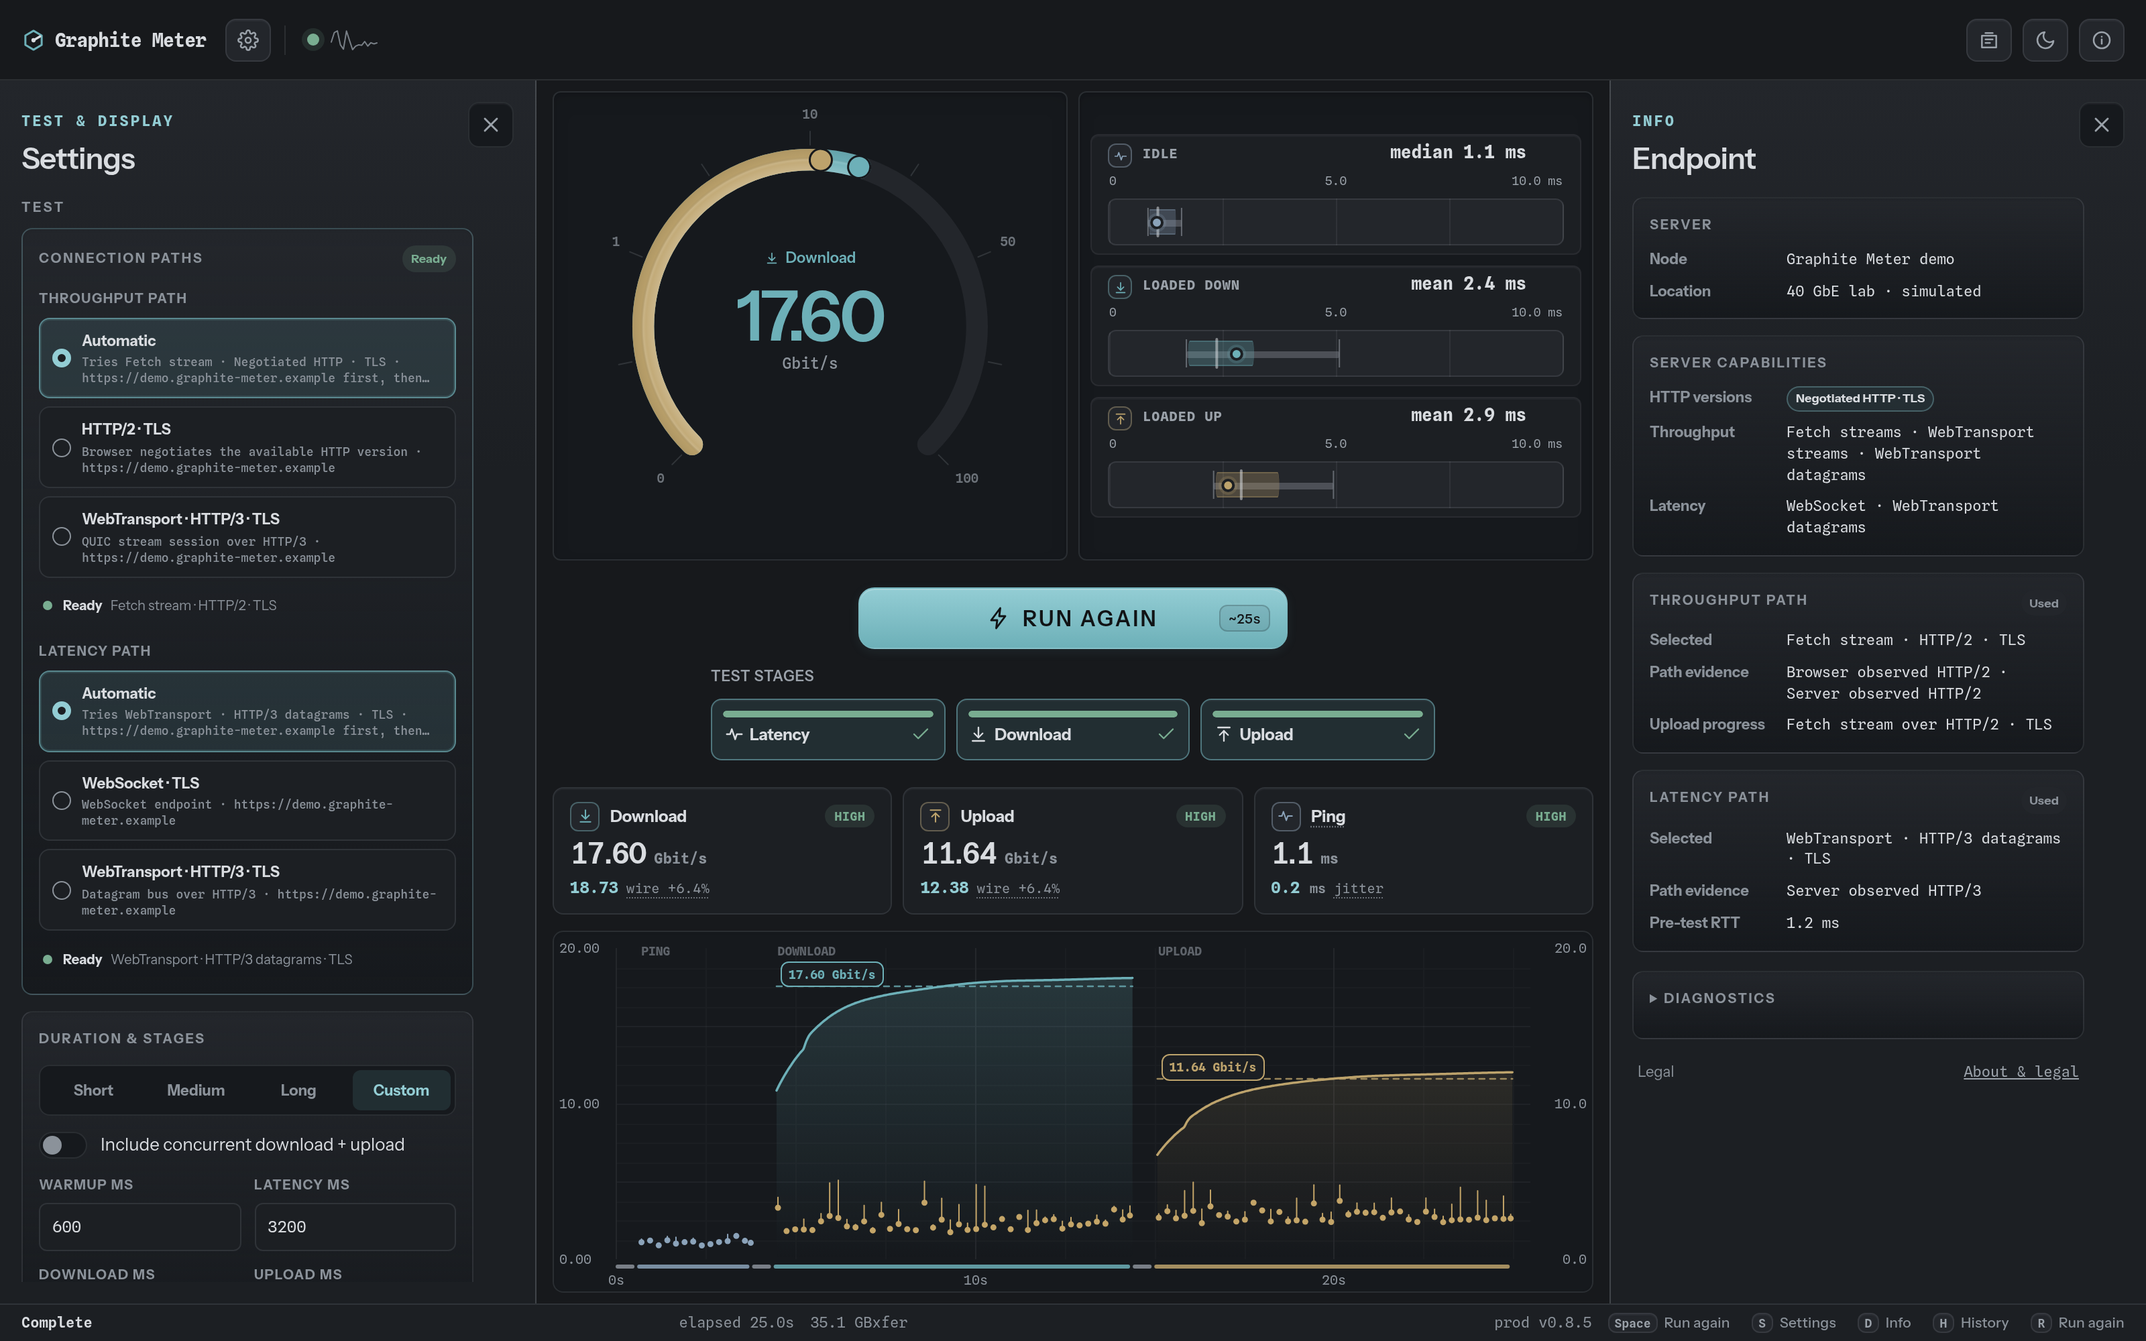
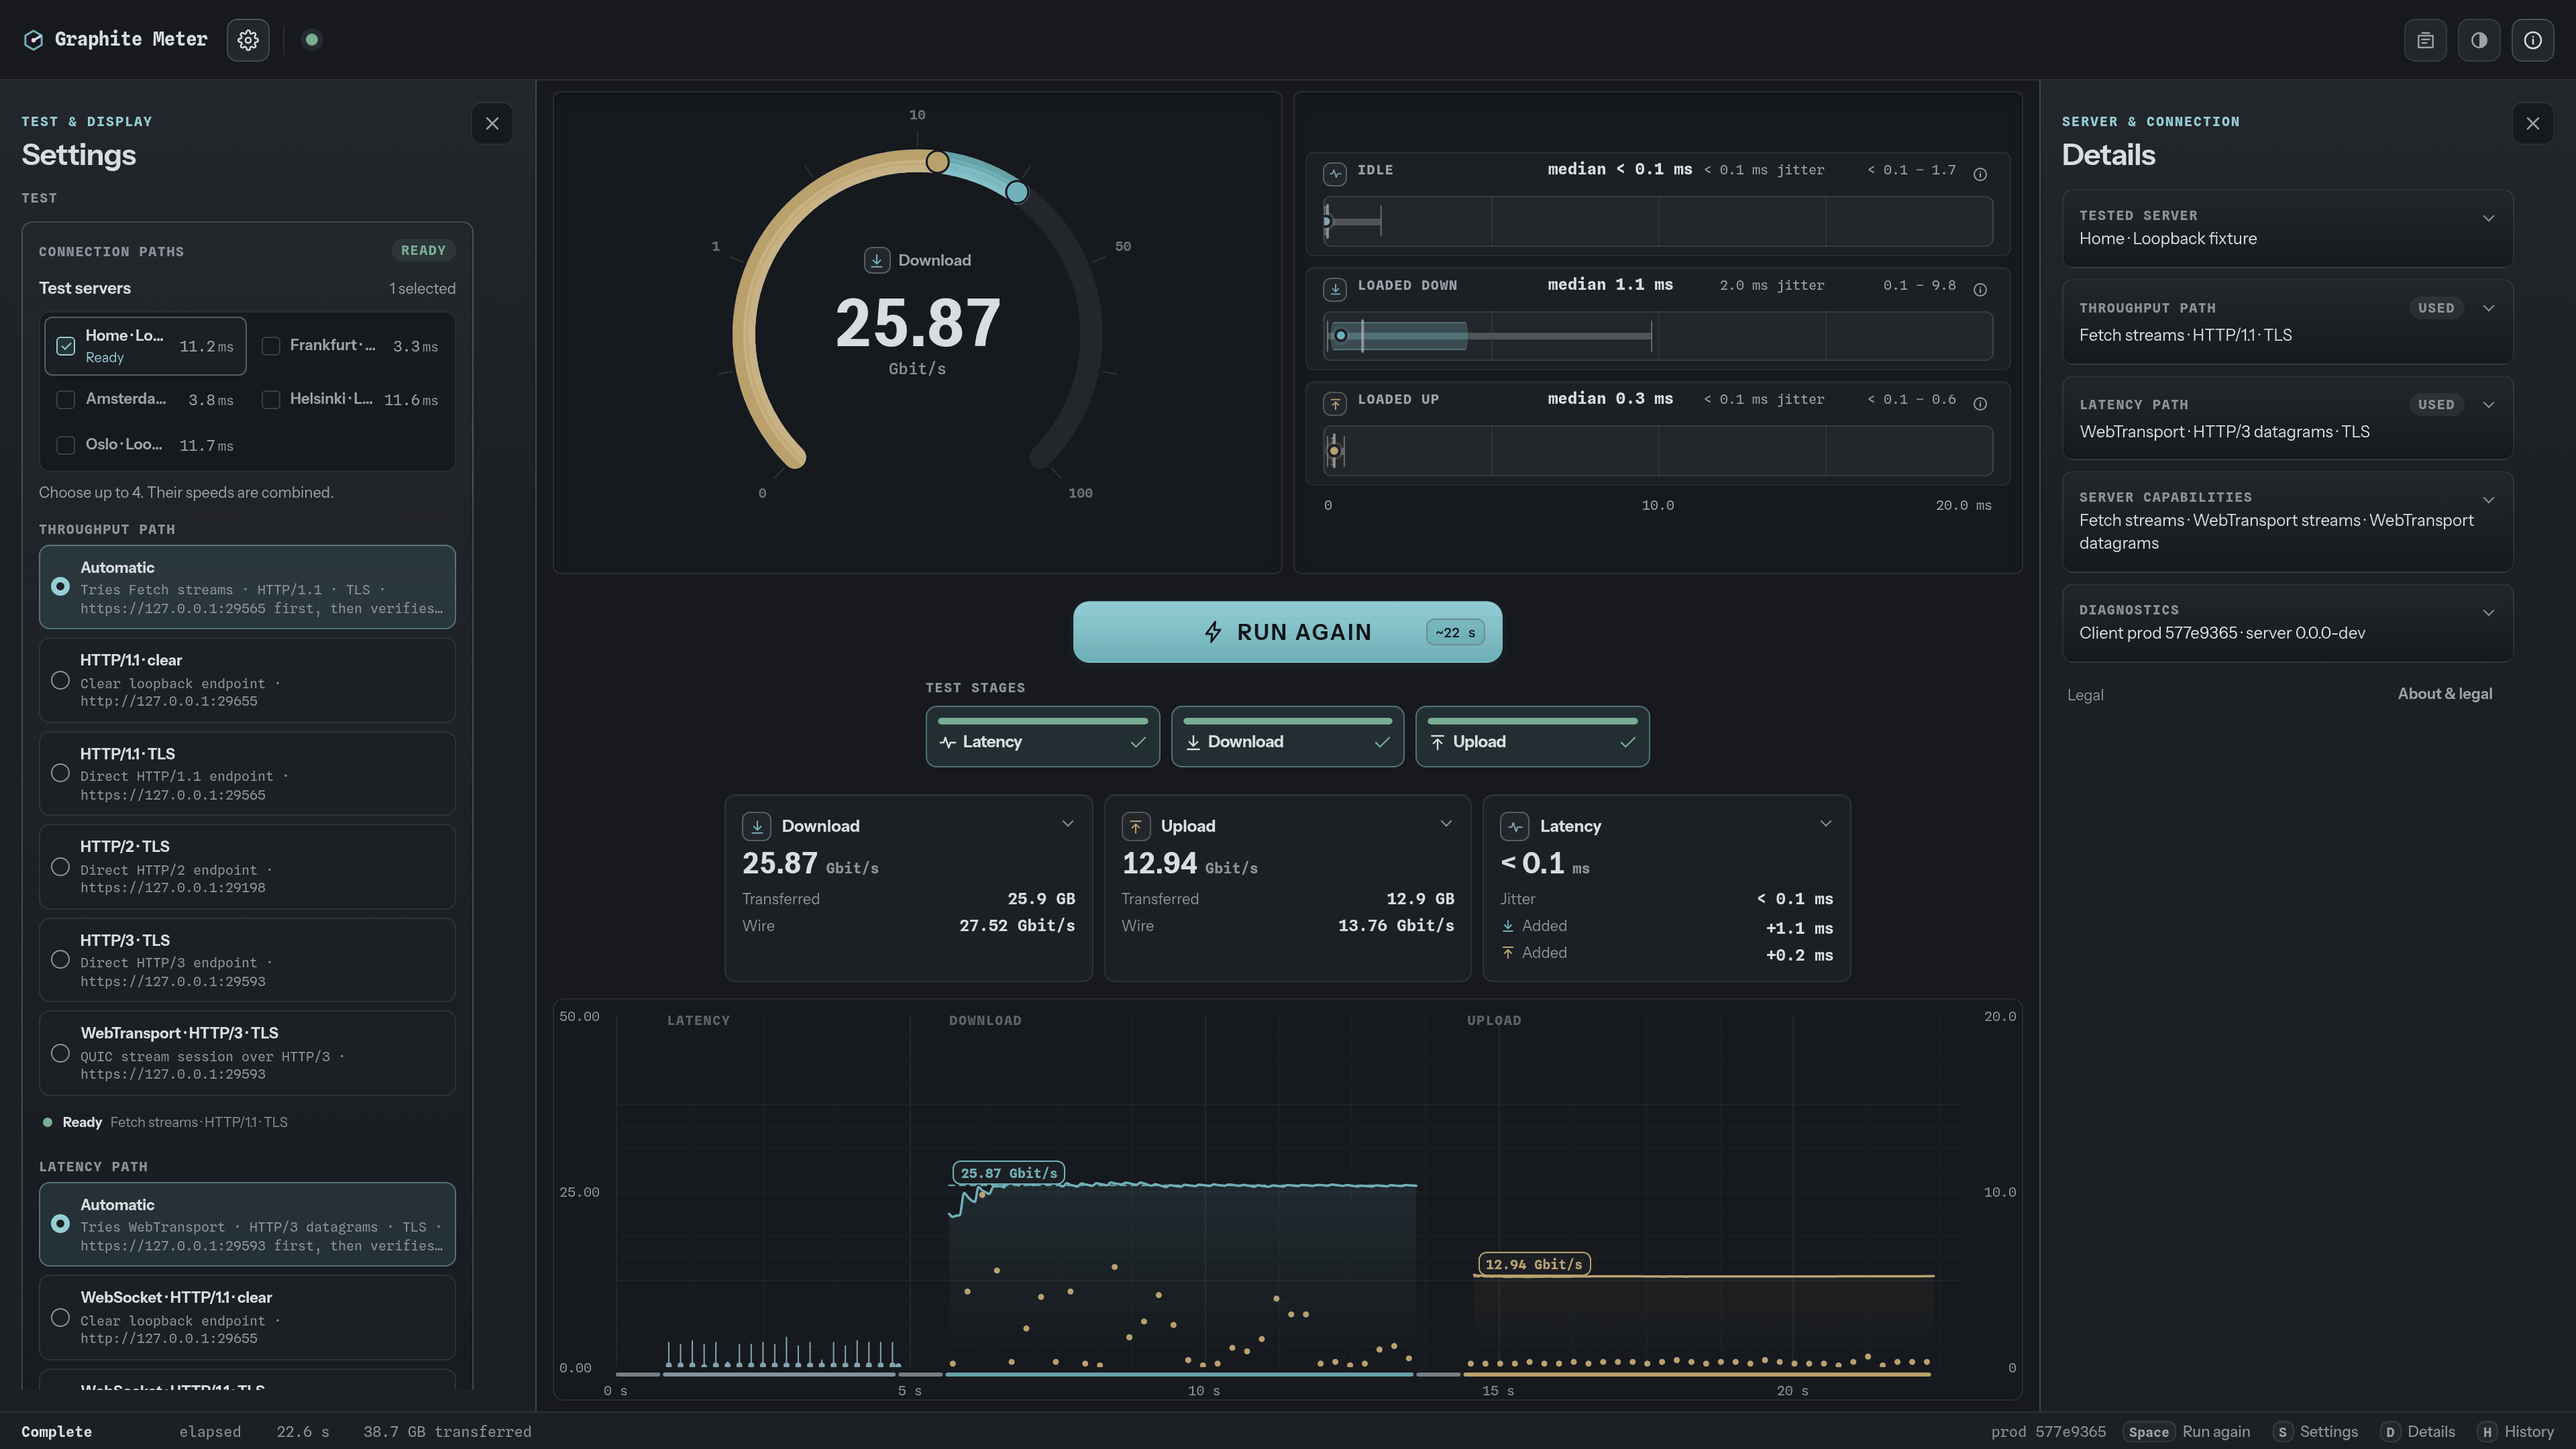
Re-capture the screenshots from real local servers
Add a four-server Combined run and a Partial run with its reason;
quantised PNGs take 1.5 MB instead of 3.4 MB.

diff --git a/docs/SCREENSHOTS.md b/docs/SCREENSHOTS.md
@@ -2,84 +2,59 @@
 
 [Project overview](../README.md) · [Quick deployment](DEPLOYMENT.md#fast-local-deployment) · [What the numbers mean](MEASUREMENTS.md)
 
-Browser captures are from v0.8.5 and the terminal capture from v0.8.2, both with simulated data; they predate the
-current UI wording and the Bubble Tea v2 terminal client and are not performance benchmarks.
+Every capture is a real run against local servers on loopback (the `mise run e2e` fleet), so the rates show software
+limits on one machine, not a network or a benchmark.
 
 ## The completed test
 
-Throughput and responsiveness share the screen. The timeline retains the transfer ramp-up and
-variation, while separate latency profiles show idle, download, and upload populations.
+Throughput and responsiveness share the screen: the gauge, idle and loaded latency lanes, result cards and a
+timeline that keeps the transfer ramp-up.
 
-<img src="assets/desktop.png" alt="v0.8.5 completed desktop test with cyan download and gold upload curves, three latency distributions, and throughput summaries" width="1080">
+<img src="assets/desktop.png" alt="Completed desktop test with download and upload curves, three latency lanes and result cards" width="1080">
 
-## Settings, beside your results
+<img src="assets/light.png" alt="The same completed test in the light theme" width="1080">
 
-Choose connection paths, stage timings, units, and display options. The dock keeps the instrument
-visible while you adjust the test; on smaller screens, the same settings open as a flyout.
+## Settings and Details
 
-<img src="assets/settings.png" alt="Settings dock with connection and timing choices beside the completed test" width="1080">
+Settings choose servers, connection paths, stage timings and display options. Details name the tested server and
+the paths a run used, separating what the browser observed from what reached the server. On a wide desktop both dock
+beside the meter.
 
-## Make room for both panels
+<img src="assets/settings.png" alt="Settings dock with the server checklist and connection paths beside the completed test" width="1080">
 
-On a wide desktop, keep Settings and Details open together. Resize each panel to leave the
-space you want for the meter. Below the docked layout, the most recent panel becomes a flyout. Your saved panel widths
-are kept when you return to a wider window.
+<img src="assets/endpoint.png" alt="Details with the throughput path open, showing browser- and server-observed protocol evidence" width="1080">
 
-<img src="assets/workspace.png" alt="v0.8.5 wide desktop with resizable Settings and Details docks open together" width="1080">
+<img src="assets/workspace.png" alt="Wide desktop with Settings and Details docked on both sides of the meter" width="1080">
 
-## Know which path you measured
+## Several servers
 
-Details identify the server and selected paths. Protocol evidence distinguishes
-what the browser observed from what reached the server, which is useful when a proxy sits between them.
+Up to four servers share one run; one **Combined** / per-server selector switches the result cards, and the latency
+lanes name the server they show. A server that leaves marks its stage **Partial**, and the stage names the reason.
 
-<img src="assets/endpoint.png" alt="Details showing the simulated 40 GbE lab deployment and independent throughput and latency path evidence" width="1080">
+<img src="assets/multi-server.png" alt="A four-server run with the Combined selector and latency from one server" width="1080">
+
+<img src="assets/partial.png" alt="A three-server run where one server stopped delivering data during download, marked Partial" width="1080">
 
 ## History on your device
 
-Opt into saving completed summaries, then browse and sort results without replacing the live
-meter. The selected result keeps throughput, latency distributions, and probe evidence together.
-Multi-server runs have one **Combined** / per-server selector; secondary evidence sits under
-**Servers & paths**, **Probe accounting**, **Issues** and **Build & environment**.
+Saved results are grouped by day and open with the live meter's result cards, per-server selector and evidence
+sections.
 
-<img src="assets/history.png" alt="Device-local history with illustrative saved runs and a selected result's measurement details" width="1080">
+<img src="assets/history.png" alt="History list grouped by day with a four-server result open" width="1080">
 
-History is optional and limited to 2,000 summaries per browser. On a phone, the selected result
-opens within the list with a restrained selection marker; the bottom status bar stays at the
-viewport edge as the workspace scrolls.
+## Phone
 
 <p align="center">
-<img src="assets/mobile-history.png" alt="v0.8.5 phone history with the selected result expanded and a fixed bottom status bar" width="320">
-</p>
-
-## Light and dark, desktop and phone
-
-The interface adapts to the available width. On a phone, the gauge, run controls, latency profiles,
-and results form a vertical reading order. Compact stage cards keep their labels readable, while
-the workspace scrolls between the anchored toolbar and status bar.
-
-<img src="assets/light.png" alt="The same completed test in Graphite Meter's light theme" width="1080">
-
-<p align="center">
-<img src="assets/mobile.png" alt="Phone viewport showing the completed gauge, test stages, and loaded-latency profiles in dark mode" width="320">
+<img src="assets/mobile.png" alt="Phone view of the completed test" width="320">
+<img src="assets/mobile-history.png" alt="Phone view of a saved result" width="320">
 </p>
 
 ## Native terminal client
 
-The Go TUI provides setup controls, live telemetry, and a completed report with receiver throughput,
-latency percentiles, and probe timeouts.
+The TUI runs the same measurement against the same servers and ends with the results and a timeline.
 
-<img src="assets/tui.png" alt="v0.8.2 native terminal client with simulated download, upload, and latency results" width="1080">
+<img src="assets/tui.png" alt="Native terminal client after a complete latency, download and upload run" width="1080">
 
-The v0.8.2 capture renders that release's ANSI output with illustrative results in a simulated terminal frame.
-[Download and run the native client](../README.md#native-terminal-client).
-
-## Capture details
-
-| Item | Value |
-| --- | --- |
-| Existing captures | Production UI `VERSION=0.8.5` (footer `prod v0.8.5`), Chromium `152.0.7977.82`, the since-removed simulated backend. |
-| Viewports | Desktop 1600 × 1000, phone 430 × 932, both at 2× pixel density; the README hero adds a device frame only. |
-| Stages | Idle latency, download and upload with a 600 ms warmup; history holds illustrative summaries. |
-| Next captures | Real local servers (for example the `mise run e2e` fleet), same viewports, stages and framing. |
-
-To run your own measurements, follow [deployment and configuration](DEPLOYMENT.md).
+Browser captures: production build, Chrome for Testing 151, 1600 × 1000 (workspace 1920 × 1080) and 430 × 932 at
+2× density, stages latency 4 s, download and upload 8 s. The terminal capture is the TUI's own 120 × 40 screen
+rendered as text. To measure your own network, follow [deployment and configuration](DEPLOYMENT.md).
